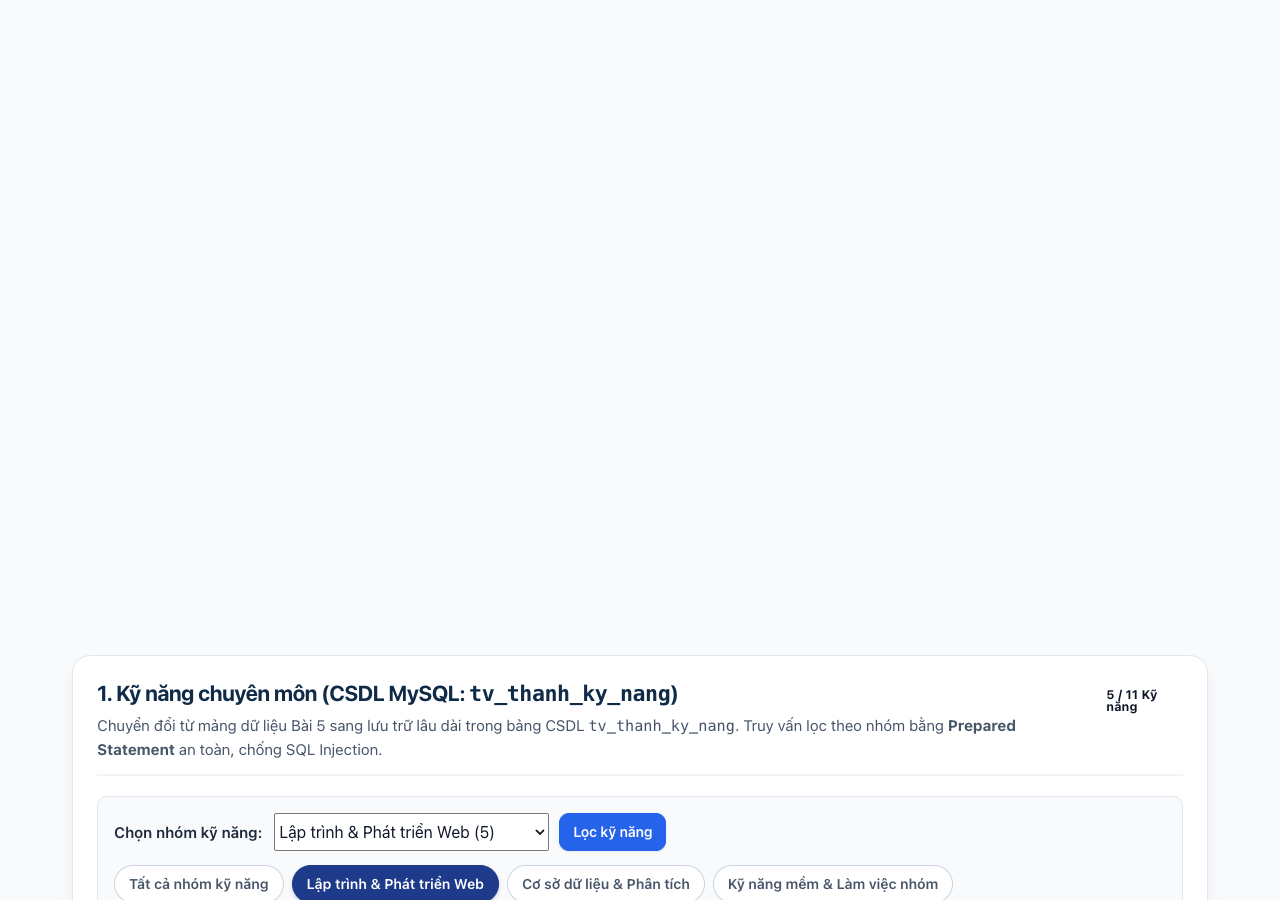
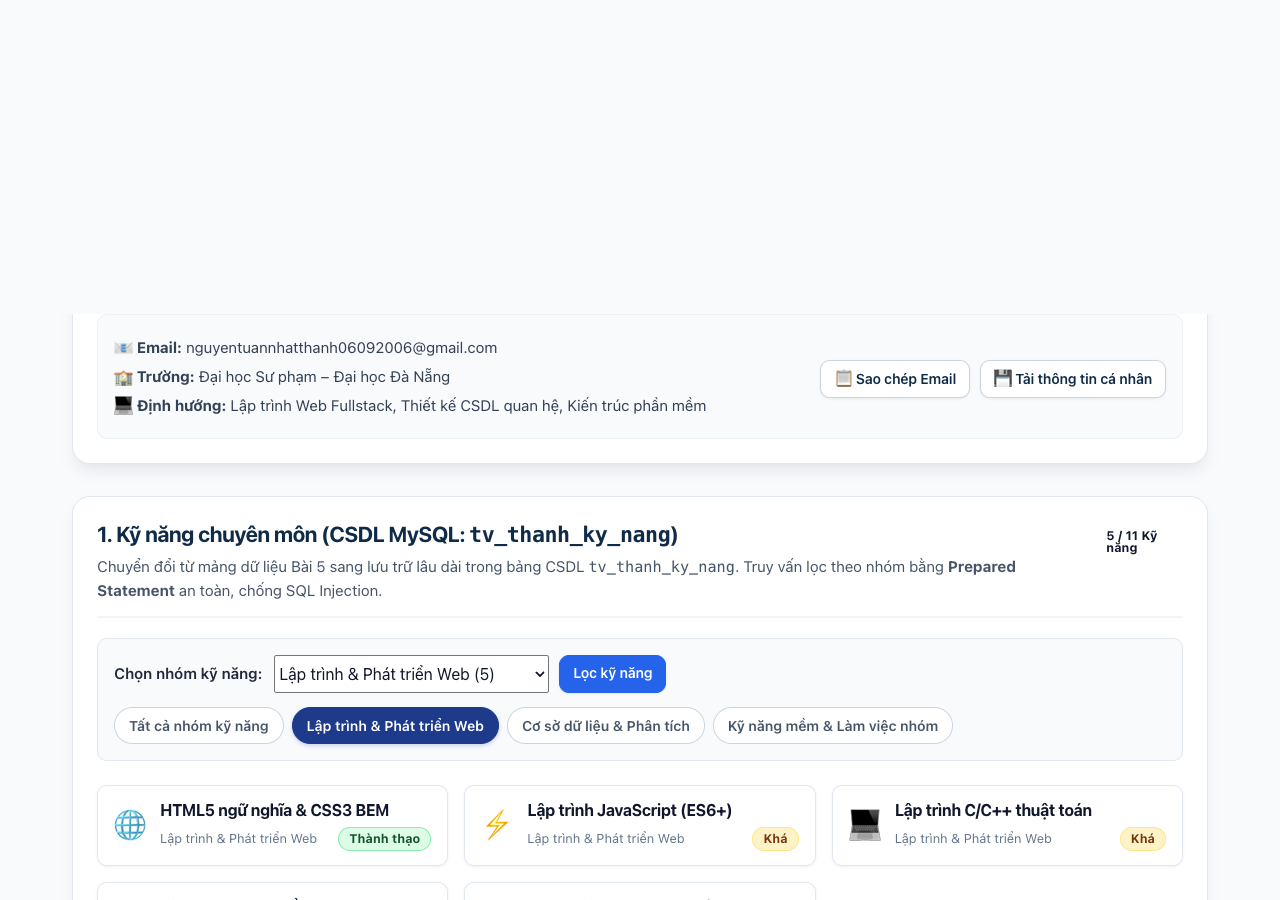
Sua loi breadcrumb va cap nhat anh minh chung trang ca nhan cua Thanh

diff --git a/thanhvien/3120224132_thanh/gioithieu.php b/thanhvien/3120224132_thanh/gioithieu.php
@@ -123,15 +123,6 @@ require __DIR__ . '/../../inc/header.php';
 
 <main class="noi-dung-chinh">
 
-  <!-- Breadcrumb điều hướng đồng bộ -->
-  <nav class="duong-dan" aria-label="Đường dẫn trang">
-    <ol class="duong-dan__danh-sach">
-      <li class="duong-dan__muc"><a class="duong-dan__lien-ket" href="../../index.php">Trang chủ</a></li>
-      <li class="duong-dan__muc"><a class="duong-dan__lien-ket" href="../../gioi-thieu.php">Giới thiệu nhóm</a></li>
-      <li class="duong-dan__muc" aria-current="page">Nguyễn Tuấn Nhật Thanh</li>
-    </ol>
-  </nav>
-
   <!-- Thông báo Flash (PRG) -->
   <?php if (!empty($_SESSION['flash'])): ?>
     <div class="thong-bao-flash thong-bao-flash--thanh-cong" role="status" aria-live="polite">
